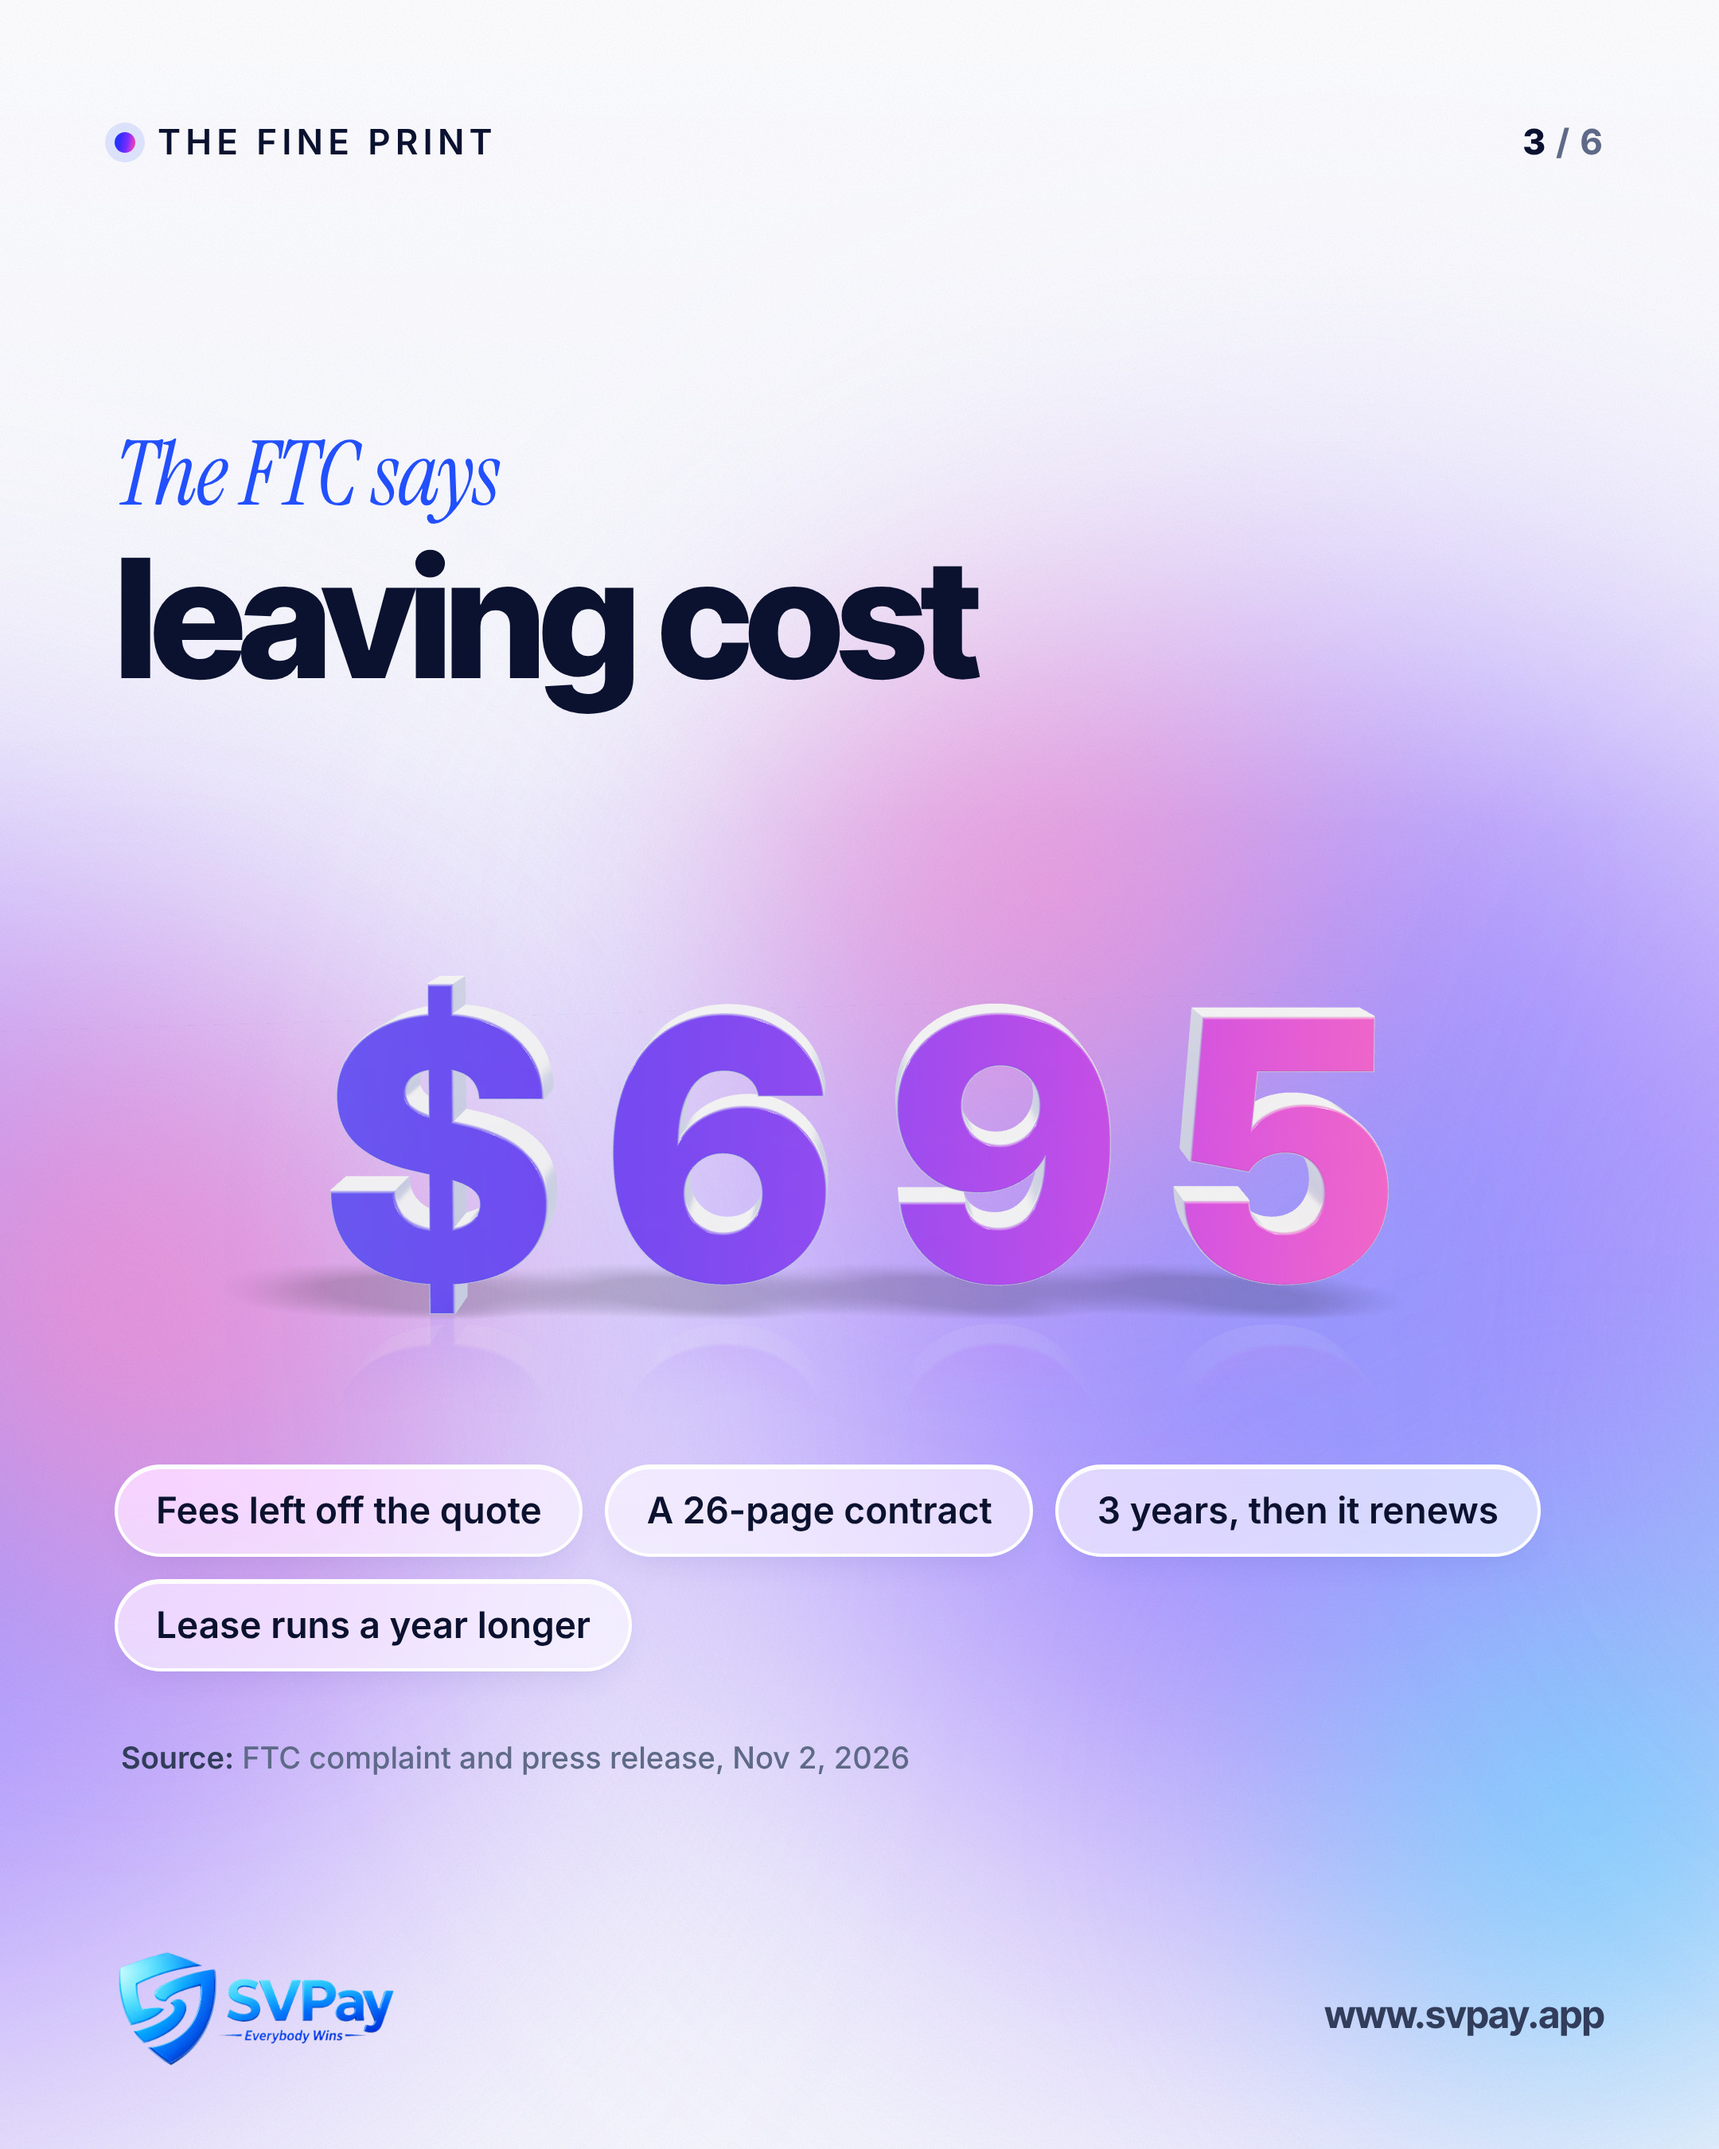
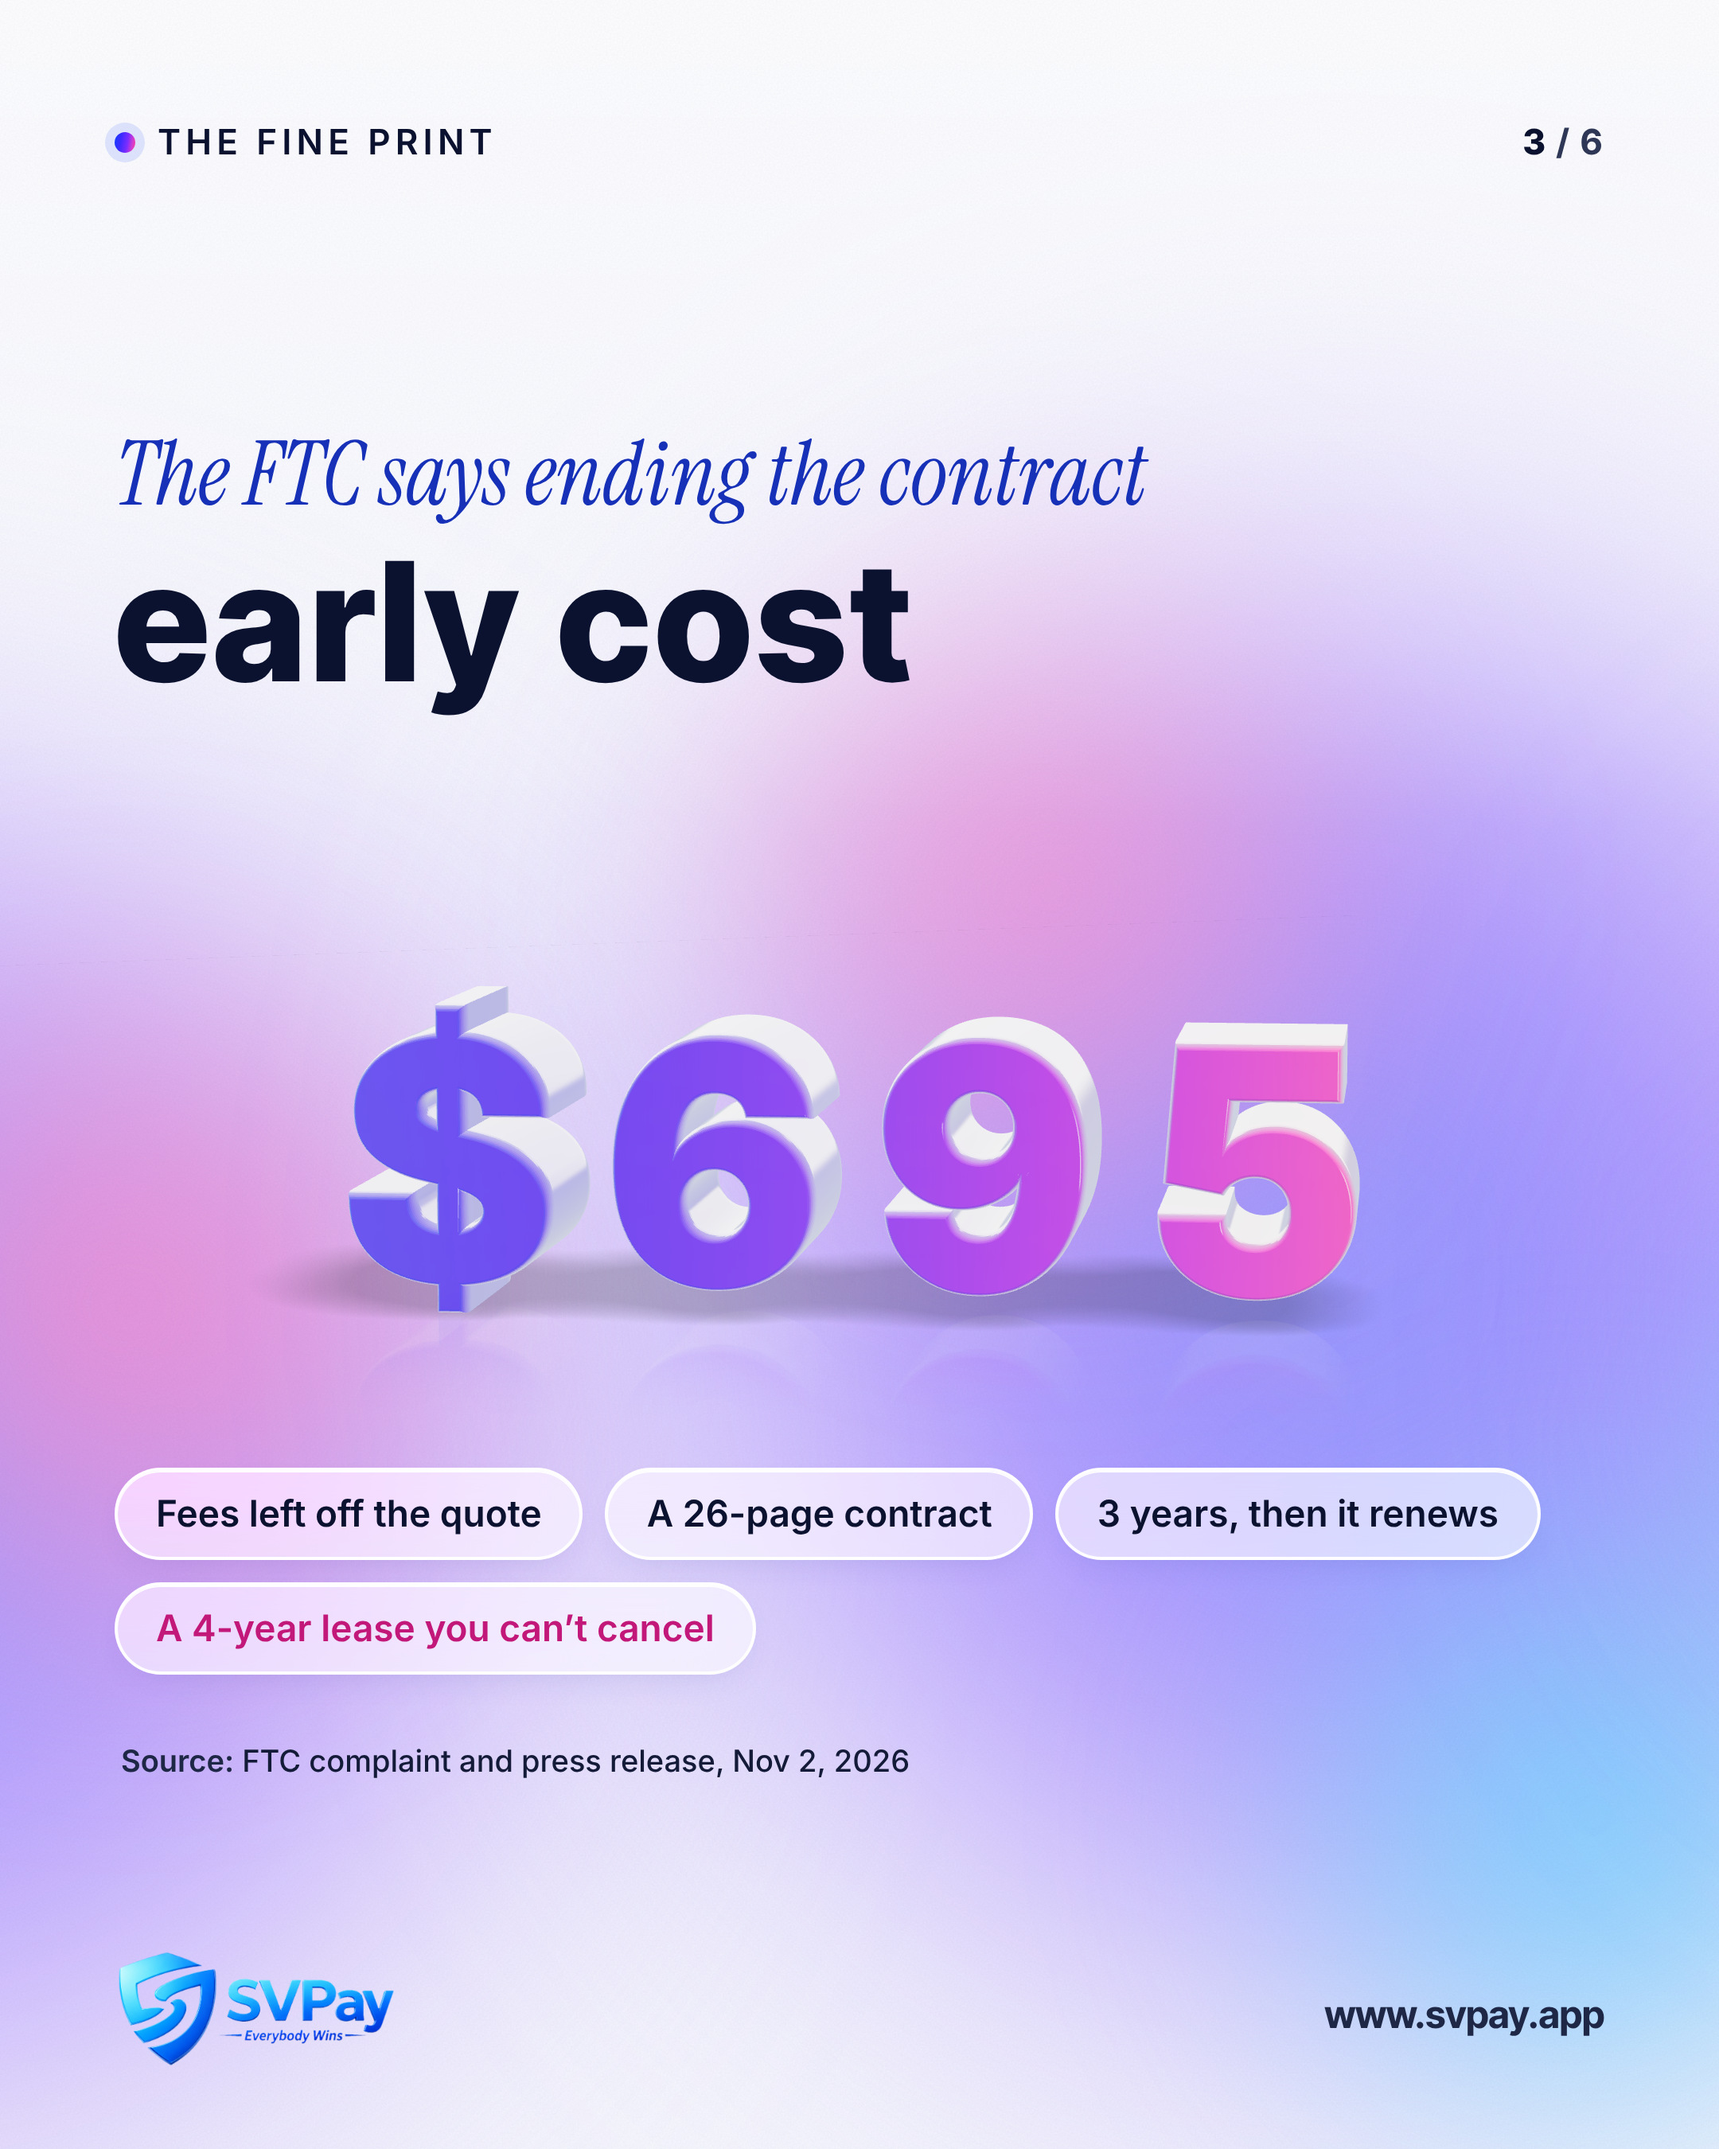
Nov 11 post, rewrite 1: lead with the lease, SVPay's own answers, judge fixes
- Facts: "40% to 60%" (not "up to 60%"); "The FTC says shops that switched
  typically paid more"; leads with the 4-year lease the shop couldn't cancel,
  and per OPB the settlement doesn't cover the leases; Riverside's side
  (OPB: strongly disagrees with the allegations).
- SVPay is not called a processor. The posts hold SVPay to the same four
  questions and answer them only with lines confirmed on www.svpay.app/pricing
  today (approved pricing_full, zero_fee_condition, how_svpay_makes_money;
  "Cancel anytime"). No calculator claim beyond "estimates your fees from your
  processor's published rates" (CO01). "Payments, without the fee." always
  has the zero_fee_condition line next to it (CO04, CO06, CR35).
- Slides: slide 2 makes "they paid more" the big point (pitch small and
  labeled); slide 4 is "Leased, not owned" ($47 x 48 = $2,256 vs about $400,
  bars from zero); slide 6 has one headline, one action, the pricing lines
  small; new slide-1-gbp.jpg (10 words) for Google Business Profile; X gets
  the slide 4 data image.
- 3D: coin body from a plain circle, so no seam crosses its face (V-I07);
  deeper, glossier numerals and question mark with a narrow bevel (no
  self-intersection in close-up crops); everything inside the 72px margins
  and clear of the glass cards.
- Type: darker ink for small text and darker gradient stops (every text box
  measured at 4.5:1, or 3:1 for large text, on the rendered pixels); headline
  tracking +0.022em so no letters touch.
[…]

diff --git a/pipeline/slides-riverside.html b/pipeline/slides-riverside.html
@@ -38,7 +38,7 @@ body{background:#E9ECF5;font-family:"Inter",sans-serif;color:var(--ink);-webkit-
 .holo{background:var(--holo-ink);-webkit-background-clip:text;background-clip:text;color:transparent;-webkit-text-fill-color:transparent;padding-right:.04em}
 .hot{background:var(--hot);-webkit-background-clip:text;background-clip:text;color:transparent;-webkit-text-fill-color:transparent;padding-right:.04em}
 .body{font:500 28px/1.42 "Inter";color:var(--ink2)}
-.src{font:500 19px/1.4 "Inter";color:var(--ink3)}
+.src{font:500 19px/1.4 "Inter";color:#141B38}
 .src b{font-weight:600;color:var(--ink2)}
 .logo{position:absolute;left:72px;bottom:50px;height:76px;width:auto;display:block}
 .url{position:absolute;right:72px;bottom:72px;font:700 24px/1 "Inter Tight";letter-spacing:-.01em;color:var(--ink2)}
@@ -62,10 +62,10 @@ body{background:#E9ECF5;font-family:"Inter",sans-serif;color:var(--ink);-webkit-
 <img class="hero" src="rv_hero_1.png" alt="">
 <div class="top"><div class="chip glass"><span>FTC case · Nov 2026</span></div><div class="count"><b>1</b> / 6</div></div>
 <div class="abs d" style="left:72px;top:380px;font-size:118px">One shop paid</div>
-<div class="abs d" style="left:72px;top:918px;font-size:64px;line-height:1.04;width:940px">to lease a <span class="hot">$400</span> card machine.</div>
-<div class="abs" style="left:76px;top:1012px;width:940px;font:600 24px/1.3 Inter;color:var(--ink)">About $47 a month for 4 years, on a lease it couldn’t cancel. Figures are approximate.</div>
-<div class="abs src" style="left:76px;top:1062px;width:580px"><b>Source:</b> FTC complaint, FTC and Washington v. Riverside Payments, Nov 2, 2026</div>
-<div class="abs pill glass" style="right:72px;top:1068px;gap:14px">Read the fine print <svg width="26" height="26" viewBox="0 0 24 24" fill="none" style="display:block"><path d="M4 12h15M13 5.5 19.5 12 13 18.5" stroke="#3B2BFF" stroke-width="2.6" stroke-linecap="round" stroke-linejoin="round"/></svg></div>
+<div class="abs d" style="left:72px;top:900px;font-size:64px;line-height:1.04;width:940px">to lease a <span class="hot">$400</span><br>card machine.</div>
+<div class="abs" style="left:76px;top:1052px;width:940px;font:600 23px/1.3 Inter;color:var(--ink)">About $47 a month for 4 years, on a lease it couldn’t cancel.</div>
+<div class="abs src" style="left:76px;top:1096px;width:580px">Figures are approximate. <b>Source:</b> FTC complaint, FTC and Washington v. Riverside Payments, Nov 2, 2026</div>
+<div class="abs pill glass" style="right:72px;top:1104px;gap:14px">Read the fine print <svg width="26" height="26" viewBox="0 0 24 24" fill="none" style="display:block"><path d="M4 12h15M13 5.5 19.5 12 13 18.5" stroke="#3B2BFF" stroke-width="2.6" stroke-linecap="round" stroke-linejoin="round"/></svg></div>
 <div class="abs src" style="right:72px;bottom:112px;font-size:16px">SVPay is not affiliated with Riverside Payments.</div>
 <img class="logo" src="svpay-logo.png" alt="SVPay, Everybody Wins">
 <div class="url">www.svpay.app</div>
@@ -76,9 +76,9 @@ body{background:#E9ECF5;font-family:"Inter",sans-serif;color:var(--ink);-webkit-
 <img class="hero" src="rv_hero_1.png" alt="">
 <div class="top"><div class="chip glass"><span>FTC case · Nov 2026</span></div></div>
 <div class="abs d" style="left:72px;top:380px;font-size:118px">One shop paid</div>
-<div class="abs d" style="left:72px;top:918px;font-size:64px;line-height:1.04;width:940px">to lease a <span class="hot">$400</span> card machine.</div>
-<div class="abs" style="left:76px;top:1012px;width:940px;font:600 24px/1.3 Inter;color:var(--ink)">About $47 a month for 4 years, on a lease it couldn’t cancel. Figures are approximate.</div>
-<div class="abs src" style="left:76px;top:1062px;width:580px"><b>Source:</b> FTC complaint, FTC and Washington v. Riverside Payments, Nov 2, 2026</div>
+<div class="abs d" style="left:72px;top:900px;font-size:64px;line-height:1.04;width:940px">to lease a <span class="hot">$400</span><br>card machine.</div>
+<div class="abs" style="left:76px;top:1052px;width:940px;font:600 23px/1.3 Inter;color:var(--ink)">About $47 a month for 4 years, on a lease it couldn’t cancel.</div>
+<div class="abs src" style="left:76px;top:1096px;width:580px">Figures are approximate. <b>Source:</b> FTC complaint, FTC and Washington v. Riverside Payments, Nov 2, 2026</div>
 <div class="abs src" style="right:72px;bottom:112px;font-size:16px">SVPay is not affiliated with Riverside Payments.</div>
 <img class="logo" src="svpay-logo.png" alt="SVPay, Everybody Wins">
 <div class="url">www.svpay.app</div>
@@ -120,7 +120,7 @@ body{background:#E9ECF5;font-family:"Inter",sans-serif;color:var(--ink);-webkit-
 <section class="slide" id="s4">
 <img class="hero" src="rv_hero_4.png" alt="">
 <div class="top"><div class="tag"><i></i>Leased, not owned</div><div class="count"><b>4</b> / 6</div></div>
-<div class="abs d" style="left:72px;top:170px;font-size:84px;width:500px;white-space:nowrap">Leased,<br>not owned.</div>
+<div class="abs d" style="left:72px;top:170px;font-size:80px;width:500px;white-space:nowrap">Leased,<br>not owned.</div>
 <div class="abs body" style="left:72px;top:356px;width:440px;font-size:30px;color:var(--ink)"><b>A 4-year lease the shop couldn’t cancel.</b></div>
 <div class="abs glass" style="left:72px;top:500px;width:440px;padding:28px 30px;border-radius:28px">
  <div class="kick" style="font-size:17px">The math</div>
@@ -141,7 +141,7 @@ body{background:#E9ECF5;font-family:"Inter",sans-serif;color:var(--ink);-webkit-
 <img class="hero" src="rv_hero_5.png" alt="">
 <div class="top"><div class="tag"><i></i>Before you sign</div><div class="count"><b>5</b> / 6</div></div>
 <div class="abs d" style="left:72px;top:170px;font-size:84px">Signing a card deal?<br><span class="holo">Get 4 answers<br>in writing.</span></div>
-<div class="abs glass" style="left:72px;top:470px;width:500px;padding:30px 32px;border-radius:32px">
+<div class="abs glass" style="left:72px;top:470px;width:470px;padding:30px 30px;border-radius:32px">
  <ul class="ul">
   <li style="font-size:30px"><b>1</b><span>Your all-in rate on a real statement</span></li>
   <li style="font-size:30px;margin-top:26px"><b>2</b><span>Every fee, by name</span></li>
@@ -174,7 +174,7 @@ body{background:#E9ECF5;font-family:"Inter",sans-serif;color:var(--ink);-webkit-
  <div class="src" style="margin-top:18px;font-size:18px">From www.svpay.app/pricing, Nov 11, 2026.</div>
 </div>
 <div class="abs" style="left:72px;top:1086px;width:620px;height:100px;border-radius:28px;padding:0 20px 0 30px;background:linear-gradient(100deg,#1236D9,#3A23C9 50%,#6A1AB0);display:flex;align-items:center;justify-content:space-between;gap:14px;box-shadow:0 30px 60px -24px rgba(70,50,230,.55),0 1px 0 rgba(255,255,255,.5) inset">
- <div><div style="font:600 19px/1 Inter;color:#fff">See what your processor takes</div><div style="font:800 27px/1.1 'Inter Tight';color:#fff;margin-top:9px;letter-spacing:.01em">www.svpay.app/savings-calculator</div></div>
+ <div><div style="font:600 19px/1 Inter;color:#fff">Estimate your processing fees</div><div style="font:800 27px/1.1 'Inter Tight';color:#fff;margin-top:9px;letter-spacing:.01em">www.svpay.app/savings-calculator</div></div>
  <div style="width:60px;height:60px;flex:none;border-radius:50%;background:#fff;display:flex;align-items:center;justify-content:center"><svg width="28" height="28" viewBox="0 0 24 24" fill="none" style="display:block"><path d="M4 12h15M13 5.5 19.5 12 13 18.5" stroke="#1236D9" stroke-width="2.6" stroke-linecap="round" stroke-linejoin="round"/></svg></div></div>
 <img class="logo" src="svpay-logo.png" alt="SVPay, Everybody Wins">
 <div class="url">www.svpay.app</div>
@@ -184,7 +184,7 @@ body{background:#E9ECF5;font-family:"Inter",sans-serif;color:var(--ink);-webkit-
 <section class="slide" id="s1G">
 <img class="hero" src="rv_hero_1.png" alt="">
 <div class="abs d" style="left:72px;top:380px;font-size:118px">One shop paid</div>
-<div class="abs d" style="left:72px;top:918px;font-size:64px;line-height:1.04;width:940px">to lease a <span class="hot">$400</span> card machine.</div>
+<div class="abs d" style="left:72px;top:900px;font-size:64px;line-height:1.04;width:940px">to lease a <span class="hot">$400</span><br>card machine.</div>
 <img class="logo" src="svpay-logo.png" alt="SVPay, Everybody Wins">
 <div class="url">www.svpay.app</div>
 </section>
@@ -192,7 +192,7 @@ body{background:#E9ECF5;font-family:"Inter",sans-serif;color:var(--ink);-webkit-
 <script>
 window.place = (I3, A) => {
   // slide 4: each label sits centred over its bar's top edge
-  const put = (id, pt) => { const L = document.getElementById(id); L.style.left = pt[0] + 'px'; L.style.top = (pt[1] - 22) + 'px'; };
+  const put = (id, pt) => { const L = document.getElementById(id); const w = L.offsetWidth; L.style.left = Math.min(pt[0], 1008 - w / 2) + 'px'; L.style.top = (pt[1] - 22) + 'px'; };   // never past the 72px margin
   if (A && A[4]) { put('lbTall', A[4].tallTop); put('lbShort', A[4].shortTop); }
 };
 </script>

diff --git a/pipeline/scene-riverside.html b/pipeline/scene-riverside.html
@@ -224,7 +224,7 @@ async function s2() {   // "paid more": a chunky jelly arrow rising to the right
 
 async function s4() {   // leased, not owned: two jelly bars from the floor, about $2,256 paid vs about $400 to buy
   await setupCamera(26, [0, 6, 40], [0, P('ly', 4.4), 0]);
-  const H = P('H', 8.4), bw = 2.3, bd = 2.0;
+  const H = P('H', 7.2), bw = 2.3, bd = 2.0;
   const bar = (h, mat, x) => { const g = new RoundedBoxGeometry(bw, h, bd, 6, 0.28); planarUV(g); const m = new THREE.Mesh(g, mat); m.position.set(x, h / 2, 0); m.castShadow = true; m.receiveShadow = true; scene.add(m); return m; };
   const tall = bar(H, jelly(['#ff1f7a', '#ff3d9e', '#d93cff'], { emissive: 0xff2f8f, emissiveIntensity: 0.16 }, ), P('xa', 1.9));
   const short = bar(H * 400 / 2256, jelly(['#2a5bff', '#4b46ff', '#7a3dff']), P('xb', 5.2));
@@ -246,8 +246,8 @@ async function s5() {   // a jelly question mark, right of the glass card (never
 
 async function s6() {   // one SVPay coin, top right, beside the headline
   await setupCamera(26, [0, 4, 40], [0, 4.6, 0]);
-  const c = await coin(P('R', 2.15), 0.56, jelly(HOLO, { transmission: 0.35 }), pearl());
-  c.rotation.set(P('rx', -0.12), P('ry', -0.42), P('rz', 0.1)); c.position.set(P('tx', 3.75), P('ty', 7.7), 0); scene.add(c);
+  const c = await coin(P('R', 1.75), 0.5, jelly(HOLO, { transmission: 0.35 }), pearl());
+  c.rotation.set(P('rx', -0.12), P('ry', -0.42), P('rz', 0.1)); c.position.set(P('tx', 3.75), P('ty', 8.6), 0); scene.add(c);
   aim(key, [8, 22, 16]); aim(rim, [-18, 8, -10]); aim(fill, [10, 2, 20]);
   window.__info = { box: bounds(c) };
 }
